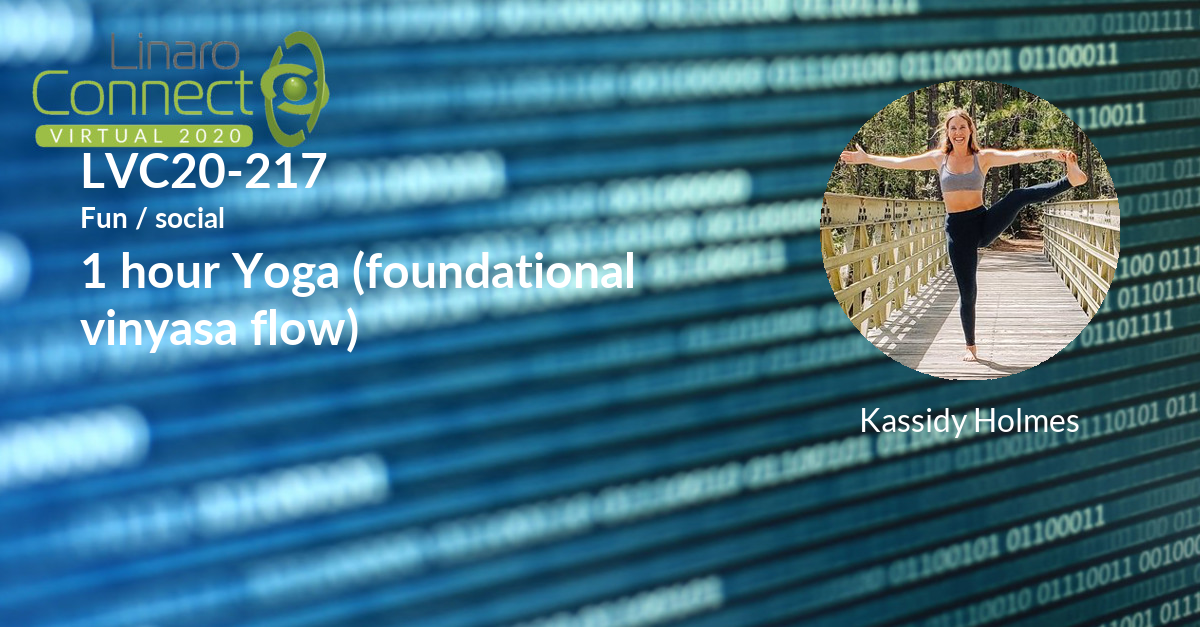
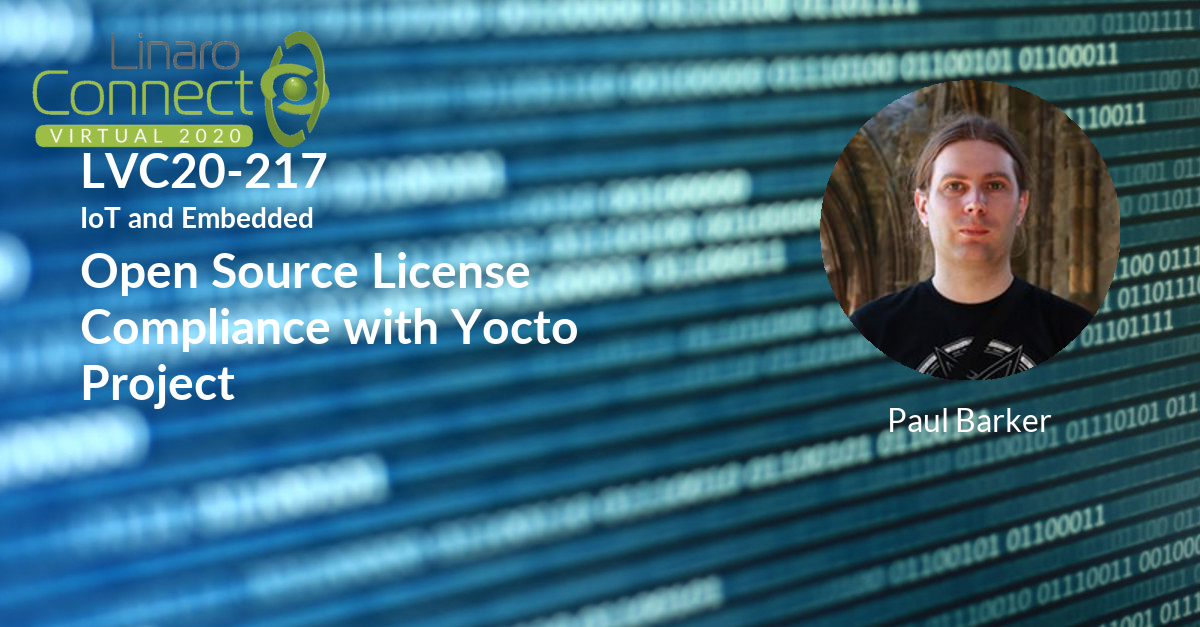
Session update for session-update-200923-0458

diff --git a/_posts/lvc20/sessions/2020-09-23-lvc20-217.md b/_posts/lvc20/sessions/2020-09-23-lvc20-217.md
@@ -1,0 +1,51 @@
+---
+categories:
+- lvc20
+description: Open Source license compliance is a concern for any company which distributes
+  systems containing the Linux kernel and other copyleft-licensed components. The
+  Yocto Project, a widely used Embedded Linux toolkit including the OpenEmbedded build
+  system, contains many tools to help companies achieve license compliance. Output
+  from a Yocto Project build can also be fed into other license compliance software
+  such as Fossology. In this talk Paul will explore these tools, address how best
+  to configure & connect them and discuss current best practices. Paul will explore
+  how modern programming languages such as Go, Javascript and Rust cause license compliance
+  headaches due to their separate package managers and how to resolve these issues.
+  He will show how to handle common concerns such as commercially licensed media codecs
+  and GPLv3 licensed software components. He will also bring the audience up to date
+  with the latest developments and ongoing work in this area of the Yocto Project.<br><br>This
+  talk will cover technical best practices and available tools, it will not give legal
+  advice.
+image: /assets/images/featured-images/lvc20/LVC20-217.png
+session_id: LVC20-217
+session_room: '[Track 1] IoT/Edge/Embedded'
+session_slot:
+  end_time: 2020-09-23 12:40
+  start_time: 2020-09-23 12:15
+session_speakers:
+- speaker_bio: Paul Barker has been an active member of the Yocto Project community
+    since 2013. He has contributed to the project in many ways, including maintaining
+    the opkg package manager during 2013-2015. More recent contributions have focused
+    on Board Support Packages for several single board computers and core components
+    such as the archiver. As a Principal Engineer at Konsulko Paul helps resolves
+    technical challenges for clients in all areas of Embedded Linux development including
+    the kernel, U-boot and Yocto Project. He is also the maintainer for the SanCloud
+    BSP for Yocto Project and a contributor to the Automotive Grade Linux (AGL) project.
+    Paul previously worked with several clients as the Pricipal Engineer of Beta Five
+    Ltd and before that he was responsible for the development and maintenance of
+    Linux support at CommAgility Ltd, a manufacturer of telecomms test equipment.&lt;br
+    /&gt; &lt;br /&gt; Paul has previously spoken on the subject of license compliance
+    at ELC Europe in 2019 and on the subject of Yocto Project best practices at the
+    associated Yocto Project developer day. Paul has also spoken on the subject of
+    opkg maintenance and Embedded Linux based underwater noise monitoring equipment
+    at FOSDEM in 2014, as well as at several academic conferences on the subjects
+    of underwater acoustics, noise monitoring equipment and data analysis.
+  speaker_company: ''
+  speaker_image: http://avatars.sched.co/e/34/11406043/avatar.jpg.320x320px.jpg?a61
+  speaker_name: Paul Barker
+  speaker_position: Principal Engineer, Konsulko Group
+  speaker_role: speaker
+session_track: IoT and Embedded
+tag: session
+tags: IoT and Embedded
+title: LVC20-217 Open Source License Compliance with Yocto Project
+---

diff --git a/_posts/lvc20/sessions/2020-09-23-lvc20-300k.md b/_posts/lvc20/sessions/2020-09-23-lvc20-300k.md
@@ -1,26 +1,27 @@
 ---
 categories:
 - lvc20
-description: Lord Kelvin said "if you can't measure it, you cannot improve it". That
-  may only be partially true. Instead, I reckon we must understand measurements and
-  their context to comprehend what is going. In the context of software development,
-  this would mean that we must measure the who, what, when, and how related to software
-  development processes, but also know the context around this data to be able to
-  answer the questions that allow managers to drive projects to their goals. I call
-  it the “measurements in context” principle.<br><br>This talk demonstrates this principle
-  with humor by looking at Linaro’s projects. Let’s explore together what the software
-  development analytics data shows us about Linaro’s open source projects. Then, let’s
-  guess at what this could be telling us if we had no idea about Linaro. Finally,
-  let’s apply the “measurements in context” principle to get sensible insights.<br><br>This
-  fun talk does not intend to answer real questions about Linaro, however, it does
-  show in an approachable and memorable way how to do analytics on open source software.
+description: 'Slack channel to chat with Jose: https://linaroconnect.slack.com/archives/C01BK2GK89X<br><br>Lord
+  Kelvin said "if you can''t measure it, you cannot improve it". That may only be
+  partially true. Instead, I reckon we must understand measurements and their context
+  to comprehend what is going. In the context of software development, this would
+  mean that we must measure the who, what, when, and how related to software development
+  processes, but also know the context around this data to be able to answer the questions
+  that allow managers to drive projects to their goals. I call it the “measurements
+  in context” principle.<br><br>This talk demonstrates this principle with humor by
+  looking at Linaro’s projects. Let’s explore together what the software development
+  analytics data shows us about Linaro’s open source projects. Then, let’s guess at
+  what this could be telling us if we had no idea about Linaro. Finally, let’s apply
+  the “measurements in context” principle to get sensible insights.<br><br>This fun
+  talk does not intend to answer real questions about Linaro, however, it does show
+  in an approachable and memorable way how to do analytics on open source software.
   We will stumble in this presentation together over common problems only so you don’t
   have to do it when it really matters. Lessons learned from the CHAOSS project will
   also provide a solid foundation from which you can build your own analysis.<br><br>During
   this talk, I will present an approach to drive your software development using data
   from both strategical and tactical points of view. Everything will rely on existing
   free, open source tools and knowledge from communities like CHAOSS (Community Health
-  Analytics for Open Source Software) and InnerSource Commons.
+  Analytics for Open Source Software) and InnerSource Commons.'
 image: /assets/images/featured-images/lvc20/LVC20-300K.png
 session_id: LVC20-300K
 session_room: '[Track 1] IoT/Edge/Embedded'

diff --git a/_posts/lvc20/sessions/2020-09-23-lvc20-117.md b/_posts/lvc20/sessions/2020-09-23-lvc20-117.md
@@ -1,18 +1,18 @@
 ---
 categories:
 - lvc20
-description: 'Slack channel to chat with speaker during live broadcast: https://linaroconnect.slack.com/archives/C01B1SV18F5<br><br>Currently,
-  one big gap between Arm64 and X86 cloud platform is that X86 can provide much better
-  instance migration experience than Arm64 platform. CPU comparison and CPU model
-  capabilities have provided Arm64 VM with the ability to live migration among different
-  hardware vendors. This function is the essential function of the data center. From
-  the cloud management framework, we also need to consider the realization of supporting
-  VM live migration.<br><br>In this seesion, we will talk about what we have done
-  in most widely used virtulization management tool - Libvirt to provide better live
-  migration capabilities on Arm64 platform and also some details in the newest lightweight
-  cloud management project such as Kubevirt.<br><br>With live migration support on
-  Arm64, it can finally benefit the cloud ecosystem for large scale datacenter scenarios
-  which may use different Arm64 CPU architectures and vendors.'
+description: 'Slack channel to chat with the speaker during the live broadcast: https://linaroconnect.slack.com/archives/C01B1SV18F5<br><br>Currently,
+  one big gap between Arm64 and X86 cloud platforms is that X86 can provide a much
+  better instance migration experience than the Arm64 platform. CPU comparison and
+  CPU model capabilities have provided Arm64 VM with the ability to live migration
+  among different hardware vendors. This function is the essential function of the
+  data center. From the cloud management framework, we also need to consider the realization
+  of supporting VM live migration.<br><br>In this session, we will talk about what
+  we have done in most widely used virtulization management tool - Libvirt to provide
+  better live migration capabilities on Arm64 platform and also some details in the
+  newest lightweight cloud management project such as Kubevirt.<br><br>With live migration
+  support on Arm64, it can finally benefit the cloud ecosystem for large scale datacenter
+  scenarios which may use different Arm64 CPU architectures and vendors.'
 image: /assets/images/featured-images/lvc20/LVC20-117.png
 session_id: LVC20-117
 session_room: '[Track 3] DataCenter'

diff --git a/_posts/lvc20/sessions/2020-09-23-lvc20-314.md b/_posts/lvc20/sessions/2020-09-23-lvc20-314.md
@@ -19,18 +19,18 @@ session_slot:
   end_time: 2020-09-24 18:25
   start_time: 2020-09-24 18:00
 session_speakers:
-- speaker_bio: Tomas Evensen is Chief Technology Officer, Open Source at Xilinx.&lt;br&gt;
-    In this role he is responsible for the open source software strategy for&lt;br&gt;
-    Xilinx All Programmable SoCs. Prior to joining Xilinx, Evensen was Chief&lt;br&gt;
-    Technology Officer at Wind River for 7 years, as well as GM for the Wind&lt;br&gt;
-    River Tools Division and VP of Engineering for the VxWorks operating system.&lt;br&gt;
-    Before that he was the creator of the Diab Data C/C++ compilers.&lt;br&gt; Evensen
-    received his MSEE at the Royal Institute of Technology in Stockholm, Sweden.
+- speaker_bio: Tomas Evensen is Chief Technology Officer, Open Source at Xilinx.&lt;br&gt;In
+    this role he is responsible for the open source software strategy for&lt;br&gt;Xilinx
+    All Programmable SoCs. Prior to joining Xilinx, Evensen was Chief&lt;br&gt;Technology
+    Officer at Wind River for 7 years, as well as GM for the Wind&lt;br&gt;River Tools
+    Division and VP of Engineering for the VxWorks operating system.&lt;br&gt;Before
+    that he was the creator of the Diab Data C/C++ compilers.&lt;br&gt;Evensen received
+    his MSEE at the Royal Institute of Technology in Stockholm, Sweden.
   speaker_company: Xilinx
   speaker_image: http://avatars.sched.co/3/4e/8935421/avatar.jpg.320x320px.jpg?daf
   speaker_name: Tomas Evensen
   speaker_position: CTO Open Source
-  speaker_role: speaker
+  speaker_role: attendee, speaker
 - speaker_bio: Stefano Stabellini serves as system software architect and virtualization
     lead at Xilinx, the world&#39;s largest supplier of FPGA solutions. Previously,
     at Aporeto, he created a virtualization-based security solution for containers
@@ -57,7 +57,7 @@ session_speakers:
   speaker_image: http://avatars.sched.co/4/7c/7525594/avatar.jpg.320x320px.jpg?84e
   speaker_name: Bruce Ashfield
   speaker_position: Principal Engineer
-  speaker_role: speaker
+  speaker_role: attendee, speaker
 session_track: IoT and Embedded
 tag: session
 tags: IoT and Embedded

diff --git a/_posts/lvc20/sessions/2020-09-23-lvc20-306.md b/_posts/lvc20/sessions/2020-09-23-lvc20-306.md
@@ -15,18 +15,18 @@ session_slot:
   end_time: 2020-09-24 16:40
   start_time: 2020-09-24 16:15
 session_speakers:
-- speaker_bio: Tomas Evensen is Chief Technology Officer, Open Source at Xilinx.&lt;br&gt;
-    In this role he is responsible for the open source software strategy for&lt;br&gt;
-    Xilinx All Programmable SoCs. Prior to joining Xilinx, Evensen was Chief&lt;br&gt;
-    Technology Officer at Wind River for 7 years, as well as GM for the Wind&lt;br&gt;
-    River Tools Division and VP of Engineering for the VxWorks operating system.&lt;br&gt;
-    Before that he was the creator of the Diab Data C/C++ compilers.&lt;br&gt; Evensen
-    received his MSEE at the Royal Institute of Technology in Stockholm, Sweden.
+- speaker_bio: Tomas Evensen is Chief Technology Officer, Open Source at Xilinx.&lt;br&gt;In
+    this role he is responsible for the open source software strategy for&lt;br&gt;Xilinx
+    All Programmable SoCs. Prior to joining Xilinx, Evensen was Chief&lt;br&gt;Technology
+    Officer at Wind River for 7 years, as well as GM for the Wind&lt;br&gt;River Tools
+    Division and VP of Engineering for the VxWorks operating system.&lt;br&gt;Before
+    that he was the creator of the Diab Data C/C++ compilers.&lt;br&gt;Evensen received
+    his MSEE at the Royal Institute of Technology in Stockholm, Sweden.
   speaker_company: Xilinx
   speaker_image: http://avatars.sched.co/3/4e/8935421/avatar.jpg.320x320px.jpg?daf
   speaker_name: Tomas Evensen
   speaker_position: CTO Open Source
-  speaker_role: speaker
+  speaker_role: attendee, speaker
 - speaker_bio: Nathalie is a Computer Engineer who, upon discovering Project Management,
     realized she was born a Project Manager, looking back at childhood behavior. She
     loves the Community aspect of Open Source and thrives on helping Engineering teams

diff --git a/_posts/lvc20/sessions/2020-09-23-lvc20-213.md b/_posts/lvc20/sessions/2020-09-23-lvc20-213.md
@@ -2,7 +2,7 @@
 categories:
 - lvc20
 description: Security is a major concern for IoT deployments. Platform Security Architecture
-  (PSA) provides a framework for building Secure IoT devices. Trusted Firmware-M is
+  (PSA) provides a framework for building secure IoT devices. Trusted Firmware-M is
   the PSA Open Source Reference Implementation aligning with PSA certified guidelines
   addressing common IoT threats. TF-M creates a Secure Processing Environment providing
   a set of Secure Services including Secure boot flow on Cortex-M CPUs that is widely
@@ -18,8 +18,8 @@ description: Security is a major concern for IoT deployments. Platform Security 
   device manufacturers to choose (and further customize if required) a profile based
   on Threat Model and Security Analysis of their usecase. Profile Small. Medium and
   Large configurations will be supported in TF-M Project and therefore deployable
-  on a variety of Cortex-M based Silicon platforms.<br><br>Session will provide an
-  overview about how Trusted Firmware-M makes it easier for IoT Application developers
+  on a variety of Cortex-M based Silicon platforms.<br><br>The session will provide
+  an overview of how Trusted Firmware-M makes it easier for IoT Application developers
   to enable Security on their devices. The session will cover the need for TF-M Profiles
   and features included in each Profile.<br><br>The session will demonstrate how Profile
   Small (aimed at memory and performance constrained devices) can be used to create

diff --git a/_posts/lvc20/sessions/2020-09-23-lvc20-302.md b/_posts/lvc20/sessions/2020-09-23-lvc20-302.md
@@ -1,8 +1,9 @@
 ---
 categories:
 - lvc20
-description: UEFI Secure boot is a verification mechanism for ensuring that code launched
-  by the device firmware is trusted and that each efi payload loaded is validated.<br>According
+description: 'Slack channel for session LVC20-302: https://linaroconnect.slack.com/archives/C01BK3BKHA5<br><br>Description:<br>UEFI
+  Secure boot is a verification mechanism for ensuring that code launched by the device
+  firmware is trusted and that each efi payload loaded is validated.<br>According
   to the UEFI Spec these keys, certificates against which the images are verified
   are stored as Authenticated Variables in UEFI. UEFI Authenticated Variable is designed
   to provision and maintain the UEFI secure boot status.<br><br>An authenticated variable
@@ -16,7 +17,7 @@ description: UEFI Secure boot is a verification mechanism for ensuring that code
   can be implemented with TrustZone (TZ).<br><br>So with Management Mode, we can say
   that core provides a<br>Secure Partition kind of thing to run Secure Software.<br><br>In
   this presentation we will discuss how on ARM based systems, OP-TEE provides a Secure
-  Partition kind of environment to run software for saving authenticated variables
+  Partition kind of environment to run software for saving authenticated variables'
 image: /assets/images/featured-images/lvc20/LVC20-302.png
 session_id: LVC20-302
 session_room: '[Track 1] IoT/Edge/Embedded'

diff --git a/_posts/lvc20/sessions/2020-09-23-lvc20-120.md b/_posts/lvc20/sessions/2020-09-23-lvc20-120.md
@@ -1,13 +1,14 @@
 ---
 categories:
 - lvc20
-description: Sound Open Firmware is an open source audio DSP firmware and SDK that
-  provides audio firmware infrastructure and development tools for developers and
-  software integrators that are interested in audio or signal processing on DSPs.<br><br>This
+description: 'Slack channel to chat with the speaker: https://linaroconnect.slack.com/archives/C01AX1U7RM4<br
+  /><br />Sound Open Firmware is an open source audio DSP firmware and SDK that provides
+  audio firmware infrastructure and development tools for developers and software
+  integrators that are interested in audio or signal processing on DSPs.<br />This
   presentation is about the status of enabling Sound Open Firmware on i.MX8 boards.
   This includes code for Application Processor which usually runs Linux kernel and
-  code for DSP core which runs the firmware.<br><br>First platform using Sound Open
-  Firmware on ARM is NXP's i.MX8QXP.
+  code for DSP core which runs the firmware.<br /><br />First platform using Sound
+  Open Firmware on ARM is NXP''s i.MX8QXP.'
 image: /assets/images/featured-images/lvc20/LVC20-120.png
 session_id: LVC20-120
 session_room: '[Track 1] IoT/Edge/Embedded'

diff --git a/_posts/lvc20/sessions/2020-09-23-lvc20-310.md b/_posts/lvc20/sessions/2020-09-23-lvc20-310.md
@@ -1,16 +1,17 @@
 ---
 categories:
 - lvc20
-description: The LITE team will discuss the overall design and intent of an MCU CI/Testing
-  infrastructure and our progress towards this goal. Using LAVA with Docker, we are
-  able to test multiple vendor boards across multiple software projects such as MCUboot,
-  TF-M and Zephyr.
+description: 'Slack channel to chat with the LITE team for session LVC20-310: https://linaroconnect.slack.com/archives/C01B3DRBZRT<br><br><br>The
+  LITE team will discuss the overall design and intent of an MCU CI/Testing infrastructure
+  and our progress towards this goal. Using LAVA with Docker, we are able to test
+  multiple vendor boards across multiple software projects such as MCUboot, TF-M and
+  Zephyr.'
 image: /assets/images/featured-images/lvc20/LVC20-310.png
 session_id: LVC20-310
 session_room: '[Track 1] IoT/Edge/Embedded'
 session_slot:
-  end_time: 2020-09-24 17:50
-  start_time: 2020-09-24 17:25
+  end_time: 2020-09-24 17:55
+  start_time: 2020-09-24 17:30
 session_speakers:
 - speaker_bio: I am active in the Zephyr Project community as the Silver member representative
     on the Governance Board, a TSC member, Zephyr project maintainer and responsible

diff --git a/_posts/lvc20/sessions/2020-09-23-lvc20-206.md b/_posts/lvc20/sessions/2020-09-23-lvc20-206.md
@@ -39,11 +39,11 @@ session_speakers:
     System Software architect which involves SoC feasibility and laying out the BSP
     software architecture for the NXP devices for wireless, networking and IoT use
     cases. Key areas include Platform software, u-boot, linux and device drivers.
-  speaker_company: NXP
+  speaker_company: NXP Semiconductor Noida
   speaker_image: http://avatars.sched.co/9/de/8935394/avatar.jpg.320x320px.jpg?dd6
   speaker_name: Poonam Aggrwal
-  speaker_position: Platform Software architect for NXP chipsets
-  speaker_role: speaker
+  speaker_position: Technical Software manager
+  speaker_role: attendee, speaker
 - speaker_bio: 'Around 15 years of experience of working on embedded software : C-programming,
     BSP, u-boot, Linux, Enablement of Real-time solutions, various device drivers,
     u-boot custodian fsl-qoriq, mpc85xx maintainer&lt;br&gt;&lt;br&gt;'

diff --git a/_posts/lvc20/sessions/2020-09-23-lvc20-220.md b/_posts/lvc20/sessions/2020-09-23-lvc20-220.md
@@ -6,8 +6,8 @@ description: Class Description:<br><br>Join Kassidy for a 1 hour foundational vi
   in the shoulders, chest, and back. These are areas in the body that are often stressed
   and over stretched while working at a computer or desk. Remember to bring something
   comfy to practice on, a mat, towel, or blanket!
-image: /assets/images/featured-images/lvc20/LVC20-217.png
-session_id: LVC20-217
+image: /assets/images/featured-images/lvc20/LVC20-220.png
+session_id: LVC20-220
 session_room: '[Track 1] IoT/Edge/Embedded'
 session_slot:
   end_time: 2020-09-23 13:45
@@ -30,5 +30,5 @@ session_speakers:
 session_track: Fun / social
 tag: session
 tags: Fun / social
-title: LVC20-217 1 hour Yoga (foundational vinyasa flow)
+title: LVC20-220 1 hour Yoga (foundational vinyasa flow)
 ---

diff --git a/_posts/lvc20/sessions/2020-09-23-lvc20-101.md b/_posts/lvc20/sessions/2020-09-23-lvc20-101.md
@@ -2,7 +2,7 @@
 categories:
 - lvc20
 description: 'Slack channel to chat with speaker: https://linaroconnect.slack.com/archives/C01AKEK4AVD<br><br>Description:<br>There
-  are lots of data formats in BigData world such as parquet file with Python(pandas),
+  are lots of data formats in the BigData world such as parquet file with Python(pandas),
   Spark dataframe, JSON, Avro, CSV, etc.<br><br>It would waste about 70-80% computation
   on data conversion and serialization/deserialization among different projects.<br><br>Apache
   Arrow addresses these issues and facilitates communication between many components
